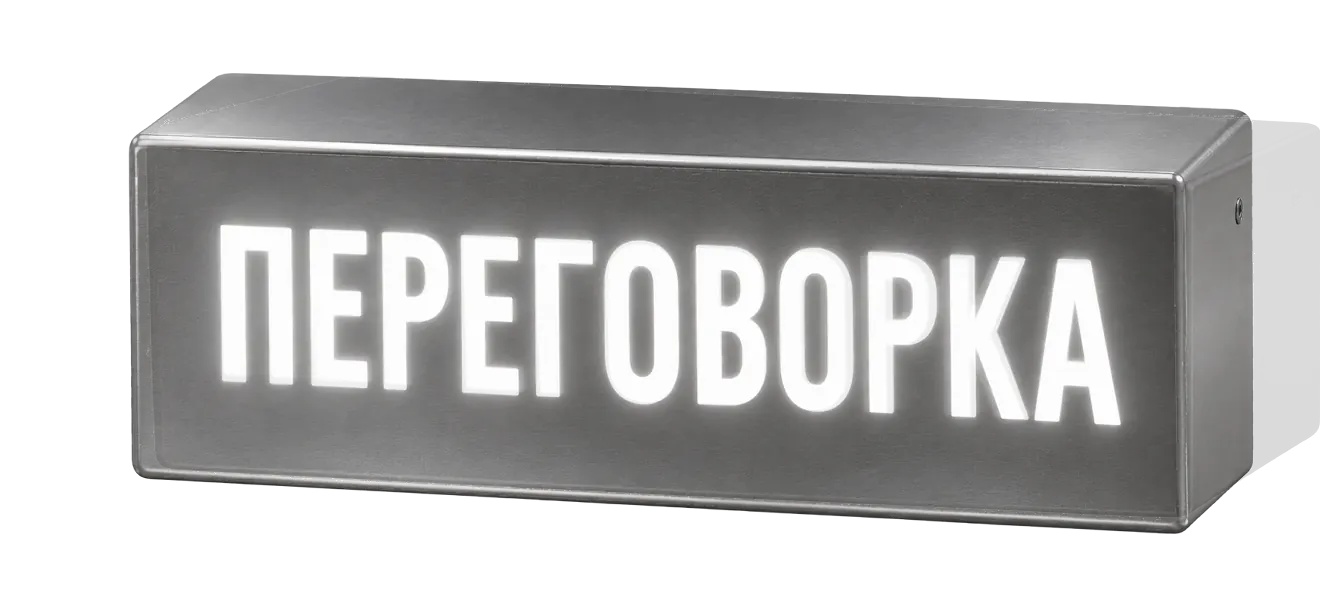
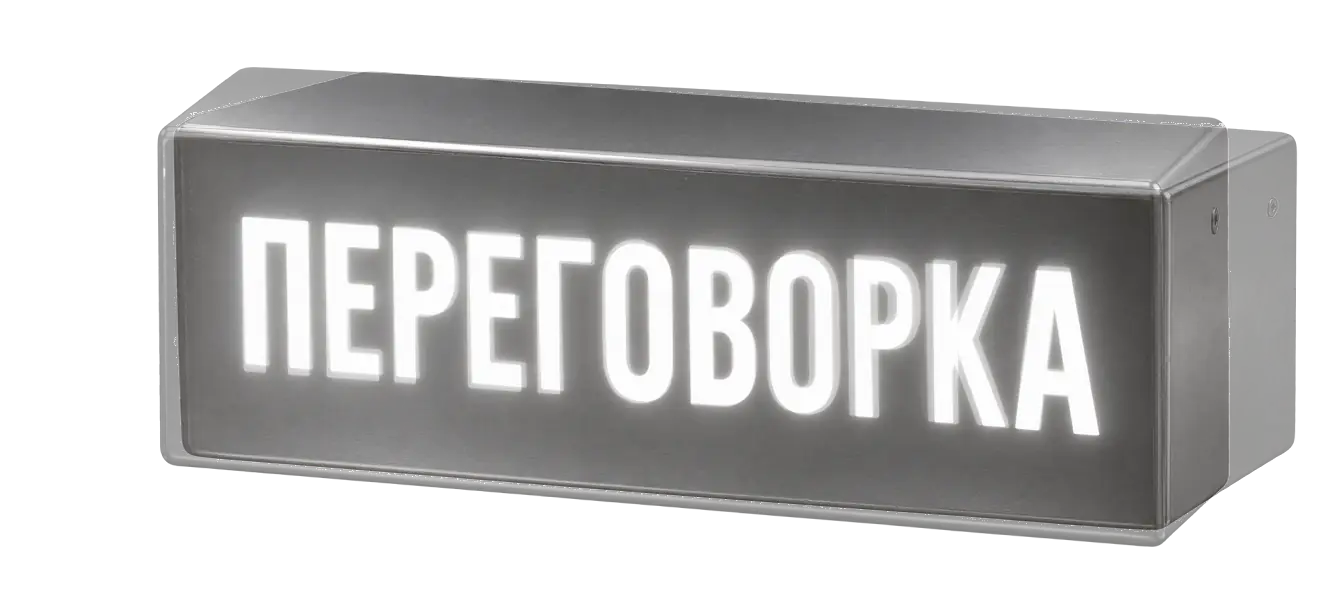
Переговорка (тест): плавный лайтбокс, микрофон и мобильная версия
Лайтбокс: 37 кадров вместо 25, поворот растянут на весь путь до верха окна,
инерция (кадр догоняет прокрутку — без рывков от колеса мыши), на телефоне
кадры 660×300. Микрофон в форме больше не растягивается (height:auto),
на телефоне — в правом верхнем углу над заголовком. Телефон: заголовок
«За этим столом» помещается, лиды 16 px, логотип «Кто мы» справа от заголовка,
стекло растворяется у середины экрана, меньше пустых отступов.

Claude-Session: https://claude.ai/code/session_011qkPgJNEhhJLrunvpi31Lk

Changed region(s): [[0.0932, 0.09, 1.0, 0.93]]

diff --git a/css/peregovorka.css b/css/peregovorka.css
@@ -93,13 +93,13 @@ button{font:inherit;color:inherit}
 .glass{position:relative;display:block;width:var(--w);height:calc(625 * var(--u));margin:calc(156 * var(--u)) auto 0;border-radius:calc(31.4 * var(--u));overflow:hidden;background:#0d1a33}
 .glass .ph{position:absolute;inset:0;width:100%;height:100%;object-fit:cover}
 /* «фрактальное стекло»: вертикальные рифлёные полосы поверх фото; по наведению растворяется за .4 с */
-.glass .fr{position:absolute;inset:0;transition:opacity .4s;background:repeating-linear-gradient(90deg,rgba(255,255,255,.16) 0,rgba(255,255,255,0) calc(14 * var(--u)),rgba(0,0,0,.28) calc(54 * var(--u)),rgba(255,255,255,.1) calc(70 * var(--u)));
+.glass .fr{position:absolute;inset:0;transition:opacity .6s;background:repeating-linear-gradient(90deg,rgba(255,255,255,.16) 0,rgba(255,255,255,0) calc(14 * var(--u)),rgba(0,0,0,.28) calc(54 * var(--u)),rgba(255,255,255,.1) calc(70 * var(--u)));
   -webkit-backdrop-filter:blur(calc(22 * var(--u))) saturate(1.3);backdrop-filter:blur(calc(22 * var(--u))) saturate(1.3)}
 .glass .fr.img{background:none;-webkit-backdrop-filter:none;backdrop-filter:none}
 .glass .fr.img img{width:100%;height:100%;object-fit:cover}
 .glass .btn{position:absolute;left:50%;top:calc(492 * var(--u));translate:-50% 0;opacity:0;transition:opacity .4s,background-color .25s,color .25s}
-.glass:hover .fr,.glass:focus-within .fr{opacity:0}
-.glass:hover .btn,.glass:focus-within .btn{opacity:1}
+.glass:hover .fr,.glass:focus-within .fr,.glass.clear .fr{opacity:0}
+.glass:hover .btn,.glass:focus-within .btn,.glass.clear .btn{opacity:1}
 .prog{padding:calc(246 * var(--u)) 0 calc(187 * var(--u))}
 .prog ol{list-style:none;margin:calc(65 * var(--u)) 0 0;padding:0}
 .prog li{display:grid;grid-template-columns:calc(120 * var(--u)) calc(340 * var(--u)) minmax(0,1fr);gap:calc(40 * var(--u));padding:24px 0;border-top:1px solid var(--line)}
@@ -154,9 +154,9 @@ button{font:inherit;color:inherit}
 .video video{position:absolute;inset:0;width:100%;height:100%;object-fit:cover;background:#000}
 
 /* ---------- форма (тёмный → синий → белый) ---------- */
-.reg{position:relative;overflow:clip;padding:calc(60 * var(--u)) 0 calc(286 * var(--u));
+.reg{position:relative;overflow-x:clip;padding:calc(60 * var(--u)) 0 calc(286 * var(--u));
   background:linear-gradient(180deg,var(--ink) 0%,#0a2a66 18%,#0062d6 45%,#0a72e6 62%,#9cc7f5 82%,#fff 100%)}
-.mic{position:absolute;right:0;top:calc(-47 * var(--u));width:calc(704 * var(--u));pointer-events:none}
+.mic{position:absolute;right:0;top:calc(-47 * var(--u));width:calc(704 * var(--u));height:auto;pointer-events:none}
 .reg form{width:calc(561 * var(--u));min-width:320px;position:relative;z-index:1}
 .reg .light{width:calc(513 * var(--u));min-width:300px;margin-top:24px}
 .flds{display:grid;gap:24px;width:calc(540 * var(--u));min-width:300px;margin-top:32px}
@@ -204,6 +204,8 @@ button{font:inherit;color:inherit}
 
 /* ---------- телефон ---------- */
 @media (max-width:820px){
+  .light{font-size:16px}
+  .h2,.d.h2{font-size:clamp(24px,7.4vw,30px)}
   :root{--u:calc(100vw / 390 * .5);--w:calc(100vw - 40px);--h2:30px}
   body{font-size:15px}
   .hdr{padding:16px 20px 0}.hdr nav{gap:16px;font-size:13px}.hdr-line{margin-top:14px}
@@ -211,29 +213,30 @@ button{font:inherit;color:inherit}
   .hero .lead{width:auto;font-size:15px}
   .lightbox{width:calc(100vw - 16px);height:auto;aspect-ratio:1320/600;margin-top:36px}
   .wire{display:none}
-  .table{margin-top:160px}.table .h2{font-size:clamp(20px,6vw,30px)}
+  .table{margin-top:72px}.table .h2{font-size:clamp(17px,5.2vw,28px)}
   .prompter{width:calc(100vw - 24px);height:auto;aspect-ratio:1052/525;margin-top:32px}
   .pr-screen{left:7.7%;top:23.2%;width:84.6%;height:57.7%}
-  .pr-roll{left:5.5%;width:89%;font-size:3.1vw}
+  .pr-roll{left:5.5%;width:89%;font-size:3.5vw}
   .top-bg{height:1300px;background-size:cover}
   .top{padding-bottom:110px}.top-bg2{height:520px}
   .logic{padding-top:0;position:relative}
 .logic>*:not(.wire),.prog>*:not(.wire){position:relative;z-index:1}.cards{flex-direction:column;gap:28px;margin-top:32px}.cards>div{width:auto!important}
   .cards h3{font-size:17px}.cards p{font-size:15px}
   .glass{height:auto;aspect-ratio:4/3;margin-top:64px;border-radius:18px}
-  .glass .fr{opacity:1}.glass .btn{opacity:1;top:auto;bottom:20px}
+  .glass .btn{top:auto;bottom:20px}
   .prog{padding:110px 0 100px}.prog ol{margin-top:36px}
   .prog li{grid-template-columns:72px minmax(0,1fr);gap:6px 16px;padding:20px 0}
   .prog .t{font-size:18px;line-height:26px}.prog .n{font-size:17px}.prog .x{grid-column:2;font-size:15px}
   .decide{height:auto;padding:56px 0}.decide .wrap{flex-direction:column;align-items:flex-start}
   .pod{padding-top:110px}.pod-head{flex-direction:column;gap:20px}.pod .light,.who .light{width:auto;font-size:16px}
   .sh{flex-basis:44%}.sh-t{font-size:13px;left:12px;right:12px;bottom:12px}
-  .sep{margin-top:80px}.who{padding:80px 0 60px}.who-logo{position:static;width:120px;margin-bottom:28px}
+  .sep{margin-top:80px}.who{padding:80px 0 60px}.who-logo{top:76px;right:0;width:84px}
   .facts{flex-direction:column;gap:28px;margin-top:40px}.facts>div{width:auto}.facts p{max-width:none}
   .video{height:auto;aspect-ratio:16/10;margin-top:48px}.video .mk{width:90px}
-  .reg{padding:40px 0 160px}.mic{position:relative;top:auto;right:-30px;width:70vw;margin:-40px 0 -20px auto}
+  .reg{padding:calc(52vw - 12px) 0 96px}.mic{top:-30px;right:-4vw;width:44vw}
+  .reg form{z-index:1}
   .reg form,.flds,.reg .btn,.reg .light{width:100%;min-width:0}
-  .place{padding:100px 0 80px}.pl-head{flex-direction:column;align-items:flex-start}.pl-head>div{flex-direction:column;align-items:flex-start;gap:16px}
+  .place{padding:72px 0 64px}.pl-head{flex-direction:column;align-items:flex-start}.pl-head>div{flex-direction:column;align-items:flex-start;gap:16px}
   .pl-addr b{font-size:18px}.pl-addr span{font-size:16px}
   .pl-body{flex-direction:column;height:auto;margin-top:40px}.pl-photo{flex-basis:auto;aspect-ratio:368/347}.pl-map{height:300px;flex:none}
   .foot{height:auto;flex-wrap:wrap;gap:14px 28px;padding:28px 20px}.foot>*:nth-child(1),.foot>*:nth-child(2){width:auto}.foot .cp{margin-left:0;width:100%}

diff --git a/js/peregovorka.js b/js/peregovorka.js
@@ -5,25 +5,36 @@ const safe=(n,f)=>{try{f()}catch(e){try{console.error('[peregovorka]',n,e)}catch
 const reduce=matchMedia('(prefers-reduced-motion: reduce)').matches;
 const goal=(name,params)=>{try{window.ym&&ym(9380047,'reachGoal',name,params||{})}catch(e){}try{window.gtag&&gtag('event',name,params||{})}catch(e){}};
 
-/* лайтбокс на первом экране поворачивается от прокрутки (макет «Лайтбокс кадры»: слева → анфас → справа).
-   25 кадров media/peregovorka/lightbox/00–24: ключевые 00 (слева), 08 (полуоборот), 16 (анфас), 24 (справа), между ними — перспективный морфинг надписи.
-   Положение — по центру лайтбокса в окне: внизу окна 00, в середине 16 (анфас), у верха 24; между кадрами — растворение, поэтому поворот без ступенек. */
+/* лайтбокс на первом экране поворачивается от прокрутки (макет «Лайтбокс кадры»: слева → анфас → справа); между кадрами — растворение */
 safe('lightbox',()=>{
   const box=$('.lightbox'),cv=$('#lbCv');if(!box||!cv||reduce)return; // при «меньше движения» стоит анфас (картинка lb-still)
-  const N=25,FRONT=16,ctx=cv.getContext('2d'),fr=[];let loaded=0,want=-1,raf=0;
-  const src=i=>`media/peregovorka/lightbox/${String(i).padStart(2,'0')}.webp`;
-  const pos=()=>{const b=box.getBoundingClientRect(),vh=innerHeight,c=(b.top+b.height/2)/vh;return Math.min(1,Math.max(0,1-c));}; // 0 — центр у низа окна, 1 — у верха
-  const frameAt=p=>p<=.5?p/.5*FRONT:FRONT+(p-.5)/.5*(N-1-FRONT);
-  const draw=()=>{raf=0;const f=frameAt(pos());if(Math.abs(f-want)<.002)return;want=f;
-    const i=Math.floor(f),k=f-i,a=fr[i],b=fr[Math.min(N-1,i+1)];if(!a||!a.complete)return;
-    ctx.clearRect(0,0,cv.width,cv.height);ctx.globalAlpha=1;ctx.drawImage(a,0,0,cv.width,cv.height);
-    if(k>.01&&b&&b.complete){ctx.globalAlpha=k;ctx.drawImage(b,0,0,cv.width,cv.height);ctx.globalAlpha=1;}};
-  const req=()=>{if(!raf)raf=requestAnimationFrame(draw);};
-  // сначала кадры около текущего положения, потом остальные
-  const start=Math.round(frameAt(pos())),order=[...Array(N).keys()].sort((x,y)=>Math.abs(x-start)-Math.abs(y-start));
-  order.forEach(i=>{const im=new Image();im.decoding='async';im.onload=()=>{loaded++;if(Math.abs(i-start)<=1&&!box.classList.contains('live')){want=-1;draw();if(fr[start]&&fr[start].complete)box.classList.add('live');}else{want=-1;req();}};im.src=src(i);fr[i]=im;});
-  addEventListener('scroll',req,{passive:true});addEventListener('resize',()=>{want=-1;req();});
+  // 37 кадров: ключевые 00 (слева), 12 (полуоборот), 24 (анфас), 36 (справа); между ними — перспективный морфинг надписи
+  const N=37,FRONT=24,ctx=cv.getContext('2d'),fr=[];let cur=-1,shown=-1,raf=0;
+  const small=innerWidth<=820; // на телефоне кадры вдвое меньше (660×300)
+  if(small){cv.width=660;cv.height=300;}
+  const src=i=>`media/peregovorka/lightbox/${small?'m/':''}${String(i).padStart(2,'0')}.webp`;
+  // поворот растянут на весь путь лайтбокса: от верха страницы до момента, когда он уходит за верх окна; анфас — на середине пути
+  const target=()=>{const b=box.getBoundingClientRect(),end=Math.max(1,b.bottom+scrollY),p=Math.min(1,Math.max(0,scrollY/end));
+    const q=p*p*(3-2*p); // мягкий старт и финиш
+    return Math.min(N-1,q<=.5?6+q/.5*(FRONT-6):FRONT+(q-.5)/.5*(N-1-FRONT));}; // на старте уже чуть развёрнут (кадр 6), не в профиль
+  const ok=i=>fr[i]&&fr[i].complete&&fr[i].naturalWidth;
+  const paint=f=>{let i=Math.floor(f),k=f-i;if(!ok(i)){ // кадр ещё не скачан — ближайший готовый
+      let j=0;while(j<N&&!ok(i-j)&&!ok(i+j))j++;i=ok(i-j)?i-j:i+j;k=0;if(!ok(i))return false;}
+    ctx.clearRect(0,0,cv.width,cv.height);ctx.globalAlpha=1;ctx.drawImage(fr[i],0,0,cv.width,cv.height);
+    if(k>.01&&ok(i+1)){ctx.globalAlpha=k;ctx.drawImage(fr[i+1],0,0,cv.width,cv.height);ctx.globalAlpha=1;}return true;};
+  // инерция: показанный кадр догоняет прокрутку плавно, поэтому шаги колеса мыши не дают рывков
+  const loop=()=>{raf=0;const t=target();cur=cur<0?t:cur+(t-cur)*.14;
+    if(Math.abs(cur-shown)>.003){if(paint(cur)){shown=cur;box.classList.add('live');}}
+    if(Math.abs(t-cur)>.01)raf=requestAnimationFrame(loop);};
+  const req=()=>{if(!raf)raf=requestAnimationFrame(loop);};
+  const start=Math.round(target()),order=[...Array(N).keys()].sort((x,y)=>Math.abs(x-start)-Math.abs(y-start));
+  order.forEach(i=>{const im=new Image();im.decoding='async';im.onload=()=>{shown=-1;req();};im.src=src(i);fr[i]=im;});
+  addEventListener('scroll',req,{passive:true});addEventListener('resize',()=>{shown=-1;req();});
 });
+
+/* стекло на тач-экранах: наведения нет — растворяется, когда фото у середины экрана */
+safe('glass',()=>{const g=$('.glass');if(!g||!matchMedia('(hover:none)').matches||!('IntersectionObserver' in window))return;
+  new IntersectionObserver(es=>es.forEach(e=>g.classList.toggle('clear',e.isIntersecting)),{rootMargin:'-35% 0px -35% 0px'}).observe(g);});
 
 /* суфлёр: текст продублирован, прокрутка на половину высоты — стык не виден (компонент «Суфлёр · прокрутка», 18 с) */
 safe('roll',()=>{const r=$('#roll');r.innerHTML+=r.innerHTML.replace(/<p>/g,'<p aria-hidden="true">');});

diff --git a/peregovorka-live-test.html b/peregovorka-live-test.html
@@ -11,7 +11,7 @@
 <link rel="icon" href="media/favicon.svg" type="image/svg+xml">
 <link rel="preload" href="fonts/druk-wide-cyr-700.woff2" as="font" type="font/woff2" crossorigin>
 <link rel="preload" href="fonts/gt-walsheim-pro-400.woff" as="font" type="font/woff" crossorigin>
-<link rel="stylesheet" href="css/peregovorka.css?v=3">
+<link rel="stylesheet" href="css/peregovorka.css?v=5">
 </head>
 <body>
 
@@ -35,8 +35,8 @@
     <a class="btn btn-white btn-air" href="#register"><span class="off">Принять приглашение  →</span><span class="on" aria-hidden="true"><i class="dot"></i>ON AIR</span></a>
     <div class="lightbox">
       <img class="wire" src="media/peregovorka/wire-lightbox.webp" alt="" aria-hidden="true" style="left:calc(618 * var(--u));top:calc(-43 * var(--u));width:calc(553 * var(--u))">
-      <!-- поворот по прокрутке: кадры media/peregovorka/lightbox/00–24 (слева → анфас 16 → справа), макет «Лайтбокс кадры» -->
-      <img class="lb-still" src="media/peregovorka/lightbox/16.webp" alt="Переговорка" width="1320" height="600">
+      <!-- поворот по прокрутке: кадры media/peregovorka/lightbox/00–36 (слева → анфас 24 → справа), макет «Лайтбокс кадры» -->
+      <img class="lb-still" src="media/peregovorka/lightbox/24.webp" alt="Переговорка" width="1320" height="600">
       <canvas class="lb-cv" id="lbCv" width="1320" height="600" aria-hidden="true"></canvas>
     </div>
   </section>
@@ -164,6 +164,6 @@
 
 <div class="pl" id="player" aria-hidden="true"><video playsinline controls></video><button class="pl-x" type="button" aria-label="Закрыть">×</button></div>
 
-<script src="js/peregovorka.js?v=2" defer></script>
+<script src="js/peregovorka.js?v=4" defer></script>
 </body>
 </html>
